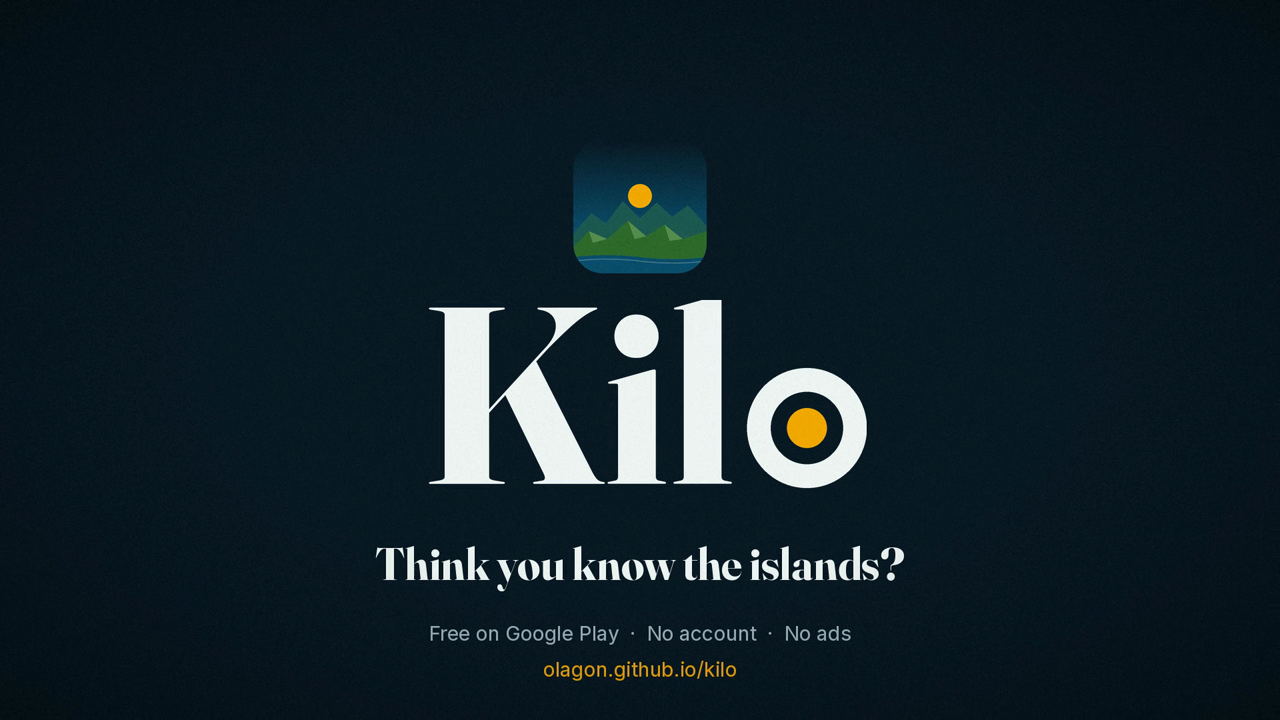
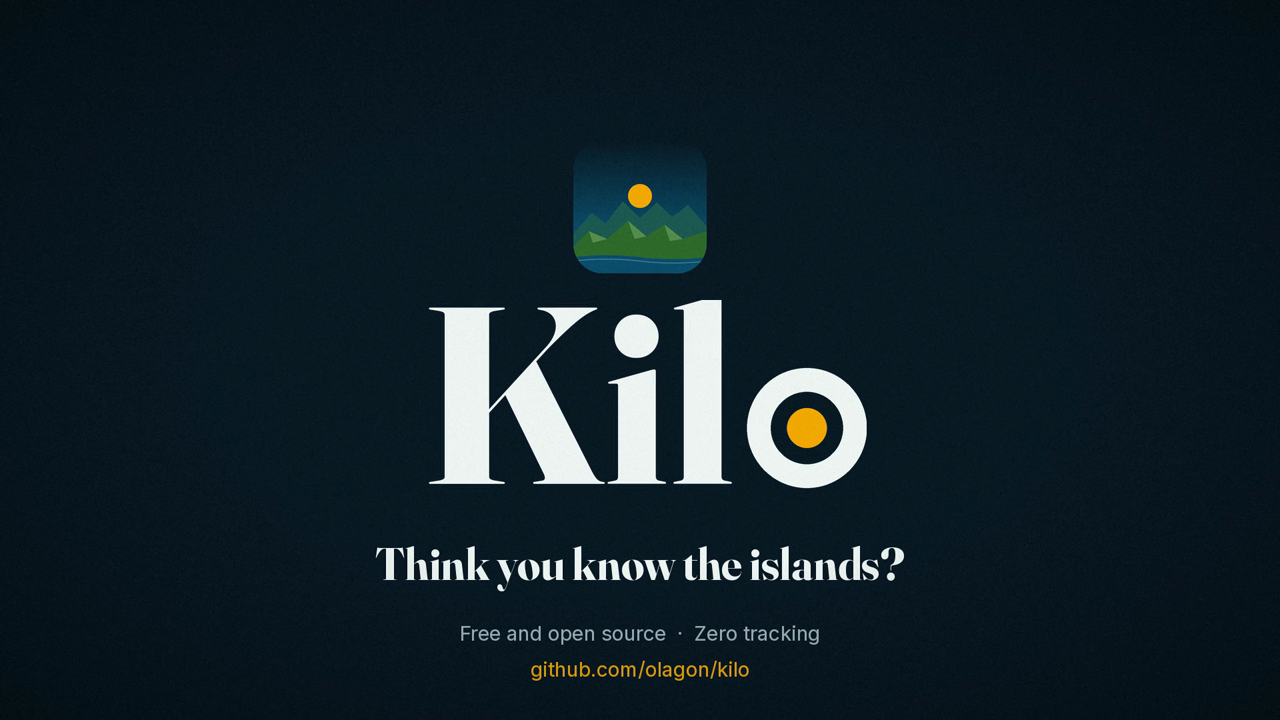
Promo video: readable type, open source beat, phone fully in frame

Changed region(s): [[0.3438, 0.8556, 0.6562, 0.9472]]

diff --git a/tools/promo/render.py b/tools/promo/render.py
@@ -87,7 +87,7 @@ def fullbleed(raw, zoom=1.0, dx=0.0):
 def phone_content(raw):
     return raw.crop((0, 95, 1080, 2340))  # under the status bar, above the nav pill
 
-PHONE_H = 1560 if V else 920
+PHONE_H = 1180 if V else 920  # vertical: 62% of frame height, bottom edge at y=1800
 def phone(raw, scale=1.0, alpha=1.0, cx=None, cy=None):
     """Device mockup with the app screen inside. Returns an RGBA layer the size of the frame."""
     content = phone_content(raw)
@@ -104,6 +104,16 @@ def phone(raw, scale=1.0, alpha=1.0, cx=None, cy=None):
     if alpha < 1:
         a = layer.split()[3].point(lambda p: int(p * alpha)); layer.putalpha(a)
     return layer
+
+def side_panel(img):
+    """Landscape: solid night column on the left with a soft right edge, so type never sits on footage."""
+    w = 760; feather = 160
+    g = Image.new('L', (W, 1)); px = [255] * W
+    for i in range(W):
+        if i > w - feather: px[i] = int(255 * clamp01((w + feather - i) / (2 * feather)) ** 1.2) if i < w + feather else 0
+    g.putdata(px)
+    layer = Image.new('RGBA', (W, H), NIGHT + (0,)); layer.putalpha(g.resize((W, H)))
+    img.alpha_composite(layer)
 
 def blur_bg(raw):
     """Landscape background: the footage, blown up, blurred and darkened."""
@@ -146,26 +156,51 @@ PILL = font('Inter-SemiBold', 38 if V else 34)
 SMALL = font('Inter-Regular', 34 if V else 30)
 NUM = font('Fraunces-Bold', 200 if V else 170)
 
-def caption(img, t, t0, t1, lines, fnt=BIG, sub=None, pos='bottom'):
+def backing(img, y0, y1, alpha=1.0, strength=0.72):
+    """Soft night band behind a text block: solid in the middle, fading to 0 at both edges."""
+    feather = 90
+    g = Image.new('L', (1, H))
+    px = [0] * H
+    for i in range(max(0, int(y0 - feather)), min(H, int(y1 + feather))):
+        k = 1.0
+        if i < y0: k = (i - (y0 - feather)) / feather
+        elif i > y1: k = ((y1 + feather) - i) / feather
+        px[i] = int(255 * strength * alpha * clamp01(k))
+    g.putdata(px)
+    layer = Image.new('RGBA', (W, H), NIGHT + (0,)); layer.putalpha(g.resize((W, H)))
+    img.alpha_composite(layer)
+
+def rule(d, x, y, alpha):
+    d.rounded_rectangle([x, y, x + 96, y + 8], 4, fill=ILIMA + (int(255 * alpha),))
+
+def caption(img, t, t0, t1, lines, fnt=BIG, sub=None, pos='bottom', backed=True):
     a, dy = anim(t, t0, t1)
     if a <= 0: return
-    d = ImageDraw.Draw(img)
+    lh = int(fnt.size * 1.08)
+    block_h = len(lines) * lh + (SUB.size + 18 if sub else 0) + 40
     if V:
-        x = 72; align = 'left'
-        y = (H - 420 - len(lines) * int(fnt.size * 1.08)) if pos == 'bottom' else 200
+        x = 72
+        band_h = len(lines) * lh + (SUB.size + 18 if sub else 0) + 40
+        y = (H - 420 - len(lines) * lh) if pos == 'bottom' else 120 + (500 - band_h) // 2
     else:
-        x = 110; align = 'left'; y = 300 if pos != 'center' else 380
-    text_block(d, lines, x, int(y + dy), fnt, KEA, align, alpha=a)
+        x = 110; y = 300 if pos != 'center' else 380
+    y = int(y + dy)
+    if backed: backing(img, y - 30, y + block_h, a)
+    d = ImageDraw.Draw(img)
+    text_block(d, lines, x, y, fnt, KEA, 'left', alpha=a)
+    yy = y + len(lines) * lh + 14
     if sub:
-        text_block(d, [sub], x, int(y + dy + len(lines) * int(fnt.size * 1.08) + 18), SUB, (201, 219, 230), align, alpha=a)
+        text_block(d, [sub], x, yy + 4, SUB, (201, 219, 230), 'left', alpha=a)
+        yy += SUB.size + 18
+    rule(d, x, yy + 10, a)
 
 def pill(img, t, t0, t1, text, x, y):
     a, dy = anim(t, t0, t1, 0.25, 0.2)
     if a <= 0: return
     d = ImageDraw.Draw(img)
-    bb = PILL.getbbox(text); w = bb[2] - bb[0] + 56; h = PILL.size + 32
-    d.rounded_rectangle([x, y + dy, x + w, y + dy + h], h // 2, fill=(10, 26, 36, int(190 * a)))
-    d.text((x + 28, y + dy + 14), text, font=PILL, fill=KEA + (int(255 * a),))
+    bb = PILL.getbbox(text); w = bb[2] - bb[0] + 48; h = PILL.size + 48
+    d.rounded_rectangle([x, y + dy, x + w, y + dy + h], h // 2, fill=(10, 26, 36, int(217 * a)))
+    d.text((x + 24 - bb[0], y + dy + 24 - bb[1]), text, font=PILL, fill=KEA + (int(255 * a),))
 
 # ---------- scenes ----------
 # (name, start, end). Clip times are offsets into the extracted frame sequences.
@@ -218,18 +253,22 @@ def frame(t):
                 scrim(img, strength=110)
             else:
                 img.alpha_composite(blur_bg(raw).convert('RGBA') if not V else Image.new('RGBA', (W, H), NIGHT + (255,)))
+                if not V: side_panel(img)
                 if not V and name in ('sky', 'montage'):
-                    # landscape: wide crop of the footage on the right, type on the left
+                    # landscape: wide crop of the footage on the right, type on the left, night panel under the type
                     src = raw.crop((0, 600, 1080, 1800)).resize((1080, 1200), Image.BILINEAR)
                     img.alpha_composite(rounded(src.convert('RGBA'), 48), (W - 1080 - 80, (H - 1200) // 2))
                 else:
                     intro = not sc.get('no_intro')
                     s = 1.0 if (st > 0.6 or not intro) else 1.08 - 0.08 * ease_out(st / 0.6)
                     al = 1.0 if (st > 0.4 or not intro) else ease_out(st / 0.4)
-                    img.alpha_composite(phone(raw, s, al, cx=(W // 2 if V else W - 560), cy=(H // 2 + (60 if V else 0))))
-            # captions per scene
+                    bezel = int(16 * s) + 2
+                    cy_v = 1800 - bezel - int(PHONE_H * s) // 2   # screen bottom = 1800 - bezel, so the frame's bottom corners sit at y=1800
+                    img.alpha_composite(phone(raw, s, al, cx=(W // 2 if V else W - 560), cy=(cy_v if V else H // 2)))
+            # captions per scene. Phone scenes already sit on night (vertical top band / landscape panel): no backing needed there.
+            on_night = name in ('phone', 'guess') or not V
             for c in sc.get('captions', []):
-                caption(img, t, c['t0'], c['t1'], c['lines'], MID if c.get('size') == 'mid' else BIG, c.get('sub'), c.get('pos', 'bottom'))
+                caption(img, t, c['t0'], c['t1'], c['lines'], MID if c.get('size') == 'mid' else BIG, c.get('sub'), c.get('pos', 'bottom'), backed=not on_night)
             if sc.get('pill'):
                 px = 72 if V else 110; py = (H - 300) if V else 760
                 pill(img, t, sc['start'] + 0.15, sc['end'], sc['pill'], px, py)
@@ -265,7 +304,20 @@ def frame(t):
                     text_block(d, [dist[i]], int(x), int(y + size / 2 + 14), SMALL, (157, 179, 189), 'center', shadow=False)
             a2, dy = anim(t, sc['start'] + 2.8, sc['end'])
             if a2 > 0:
-                text_block(d, ['Share your day,', 'spoiler free.'], cx, int((y0 + size + 160 if V else y0 + size + 110) + dy), MID, KEA, 'center', alpha=a2, shadow=False)
+                text_block(d, ['Share your score,', 'not the answers.'], cx, int((y0 + size + 160 if V else y0 + size + 110) + dy), MID, KEA, 'center', alpha=a2, shadow=False)
+        elif name == 'values':
+            d = ImageDraw.Draw(img)
+            lines = ['Free.', 'Open source.', 'Zero tracking.']
+            fnt = font('Fraunces-Bold', 150 if V else 120); lh = int(fnt.size * 1.15)
+            y0 = (H - 3 * lh) // 2
+            for i, line in enumerate(lines):
+                k = ease_out((st - 0.15 - i * 0.75) / 0.45)
+                if k <= 0: continue
+                sl = int((1 - k) * 90)
+                text_block(d, [line], W // 2 + sl, y0 + i * lh, fnt, KEA if i < 2 else ILIMA, 'center', alpha=k, shadow=False)
+            if st > (sc['end'] - sc['start']) - 0.5:
+                f = clamp01((st - ((sc['end'] - sc['start']) - 0.5)) / 0.5)
+                img.alpha_composite(Image.new('RGBA', (W, H), NIGHT + (int(255 * f),)))
         elif name == 'end':
             d = ImageDraw.Draw(img)
             a = ease_out(st / 0.7)
@@ -281,8 +333,8 @@ def frame(t):
             yy = y + ic.height + 40 + wm.height + 60
             text_block(d, ['Think you know the islands?'], cx, int(yy + dy), MID, KEA, 'center', alpha=a2, shadow=False)
             a3, dy3 = anim(t, sc['start'] + 1.3, sc['end'] + 1)
-            text_block(d, ['Free on Google Play  ·  No account  ·  No ads'], cx, int(yy + MID.size + 60 + dy3), SMALL, (157, 179, 189), 'center', alpha=a3, shadow=False)
-            text_block(d, ['olagon.github.io/kilo'], cx, int(yy + MID.size + 60 + SMALL.size + 24 + dy3), SMALL, ILIMA, 'center', alpha=a3, shadow=False)
+            text_block(d, ['Free and open source  ·  Zero tracking'], cx, int(yy + MID.size + 60 + dy3), SMALL, (157, 179, 189), 'center', alpha=a3, shadow=False)
+            text_block(d, ['github.com/olagon/kilo'], cx, int(yy + MID.size + 60 + SMALL.size + 24 + dy3), SMALL, ILIMA, 'center', alpha=a3, shadow=False)
             if st > (sc['end'] - sc['start']) - 1.0:  # fade to night
                 f = clamp01((st - ((sc['end'] - sc['start']) - 1.0)) / 1.0)
                 img.alpha_composite(Image.new('RGBA', (W, H), NIGHT + (int(255 * f),)))

diff --git a/tools/promo/music.py b/tools/promo/music.py
@@ -76,7 +76,7 @@ def build(duration, pin_t=None, reveal_t=None, whoosh_ts=(), tick_ts=()):
     beats = int(duration / BEAT)
     for b in range(beats):
         t0 = b * BEAT
-        if t0 < BAR * 1 or t0 > duration - 4.5: continue
+        if t0 < BAR * 1 or t0 > duration - 7.8: continue  # pulse drops out for the values beat and end card
         if b % 2 == 0:
             k = int(SR * 0.25); t = np.arange(k) / SR
             kick = 0.5 * np.sin(2 * np.pi * (55 + 40 * np.exp(-t * 30)) * t) * np.exp(-t * 18)
@@ -91,7 +91,7 @@ def build(duration, pin_t=None, reveal_t=None, whoosh_ts=(), tick_ts=()):
     t = 9.0
     phrase = [PENTA[2], PENTA[4], PENTA[3], PENTA[1], PENTA[4], PENTA[5], PENTA[4], PENTA[2]]
     i = 0
-    while t < duration - 6:
+    while t < duration - 9:
         m = phrase[i % len(phrase)]
         if 27 <= t < 33: m += 12 if m < 76 else 0  # lift for the montage
         dur = BEAT * (1.5 if i % 4 == 3 else 0.75)
@@ -101,8 +101,11 @@ def build(duration, pin_t=None, reveal_t=None, whoosh_ts=(), tick_ts=()):
         t += dur + (BEAT * 0.25 if i % 4 == 3 else 0)
         i += 1
     # resolve: a final G chord swell on the end card
+    # values beat: three soft stabs landing with the lines, then the resolving G swell on the end card
+    for j, m in enumerate([62, 66, 69]):
+        place(mix, note(midi(m), 0.9, amp=0.09, attack=0.01, decay=0.5, sustain=0.3, release=0.8), duration - 7.65 + j * 0.75)
     for m in CHORDS['G'][1:]:
-        place(mix, note(midi(m), 3.0, amp=0.07, attack=0.4, decay=1.0, sustain=0.6, release=1.5), duration - 4.2)
+        place(mix, note(midi(m), 3.4, amp=0.07, attack=0.5, decay=1.0, sustain=0.6, release=1.8), duration - 4.4)
     # sound design
     if pin_t is not None:
         k = int(SR * 0.06); tq = np.arange(k) / SR
